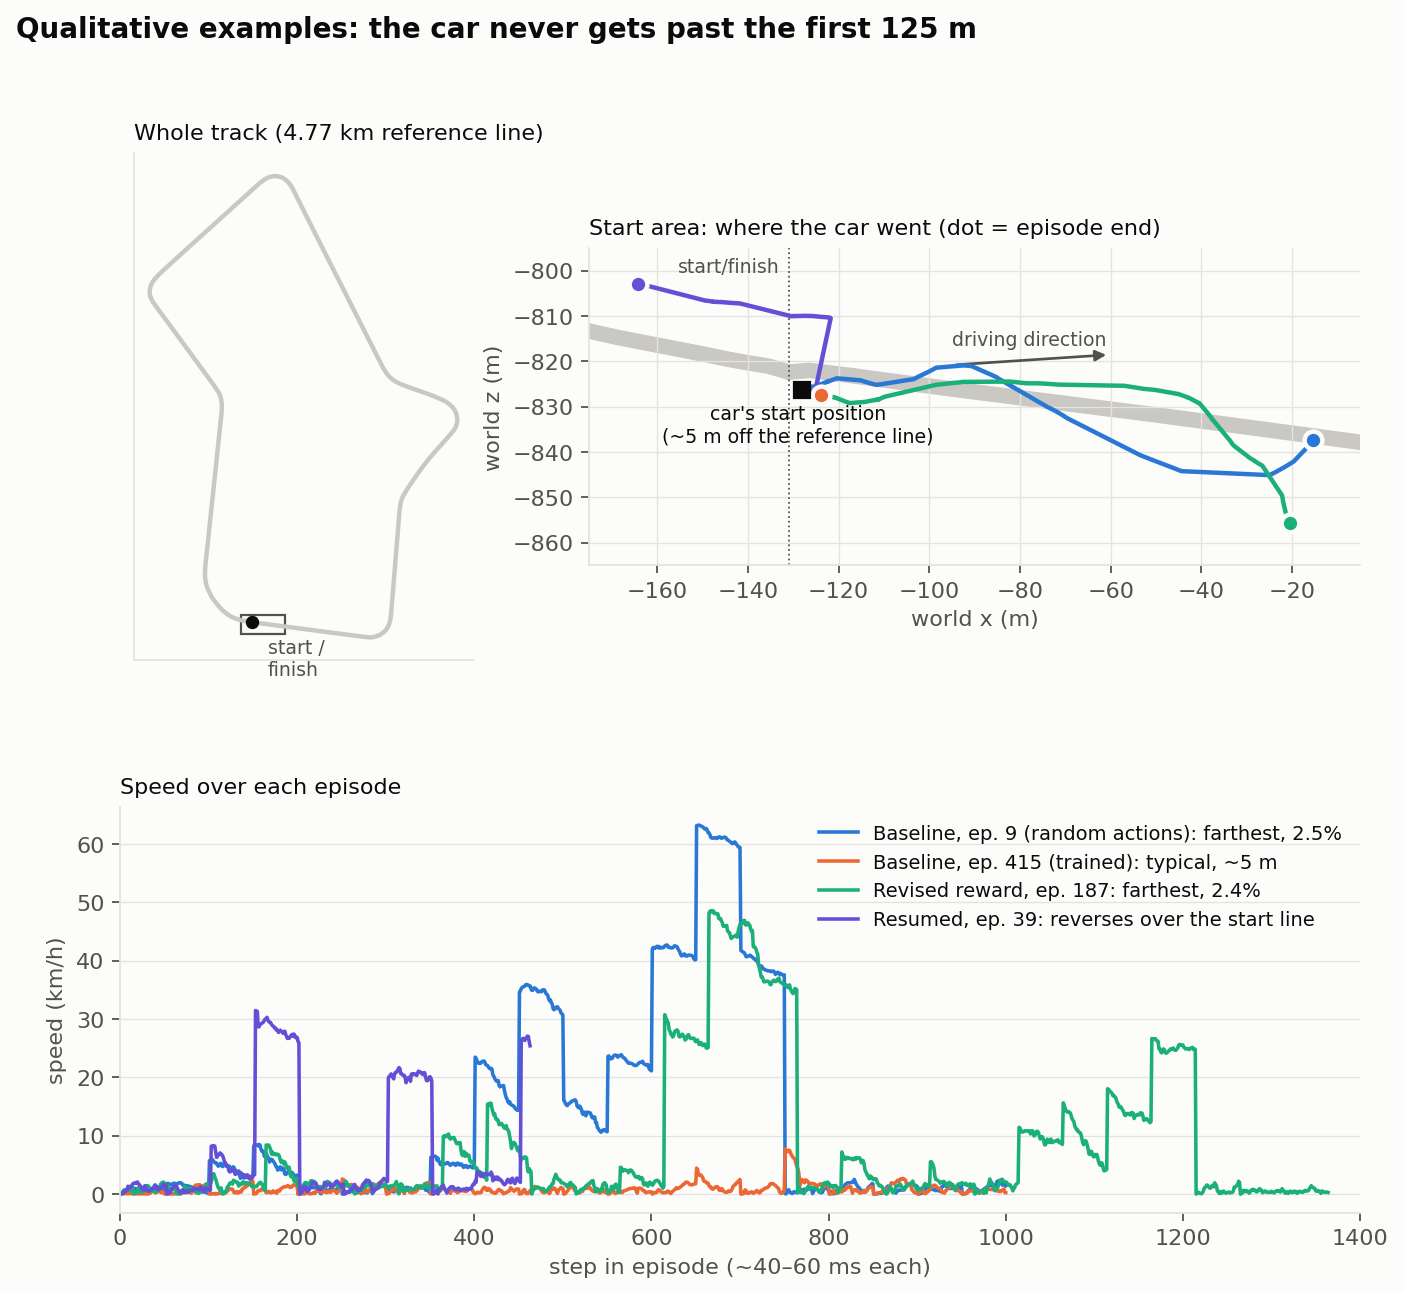
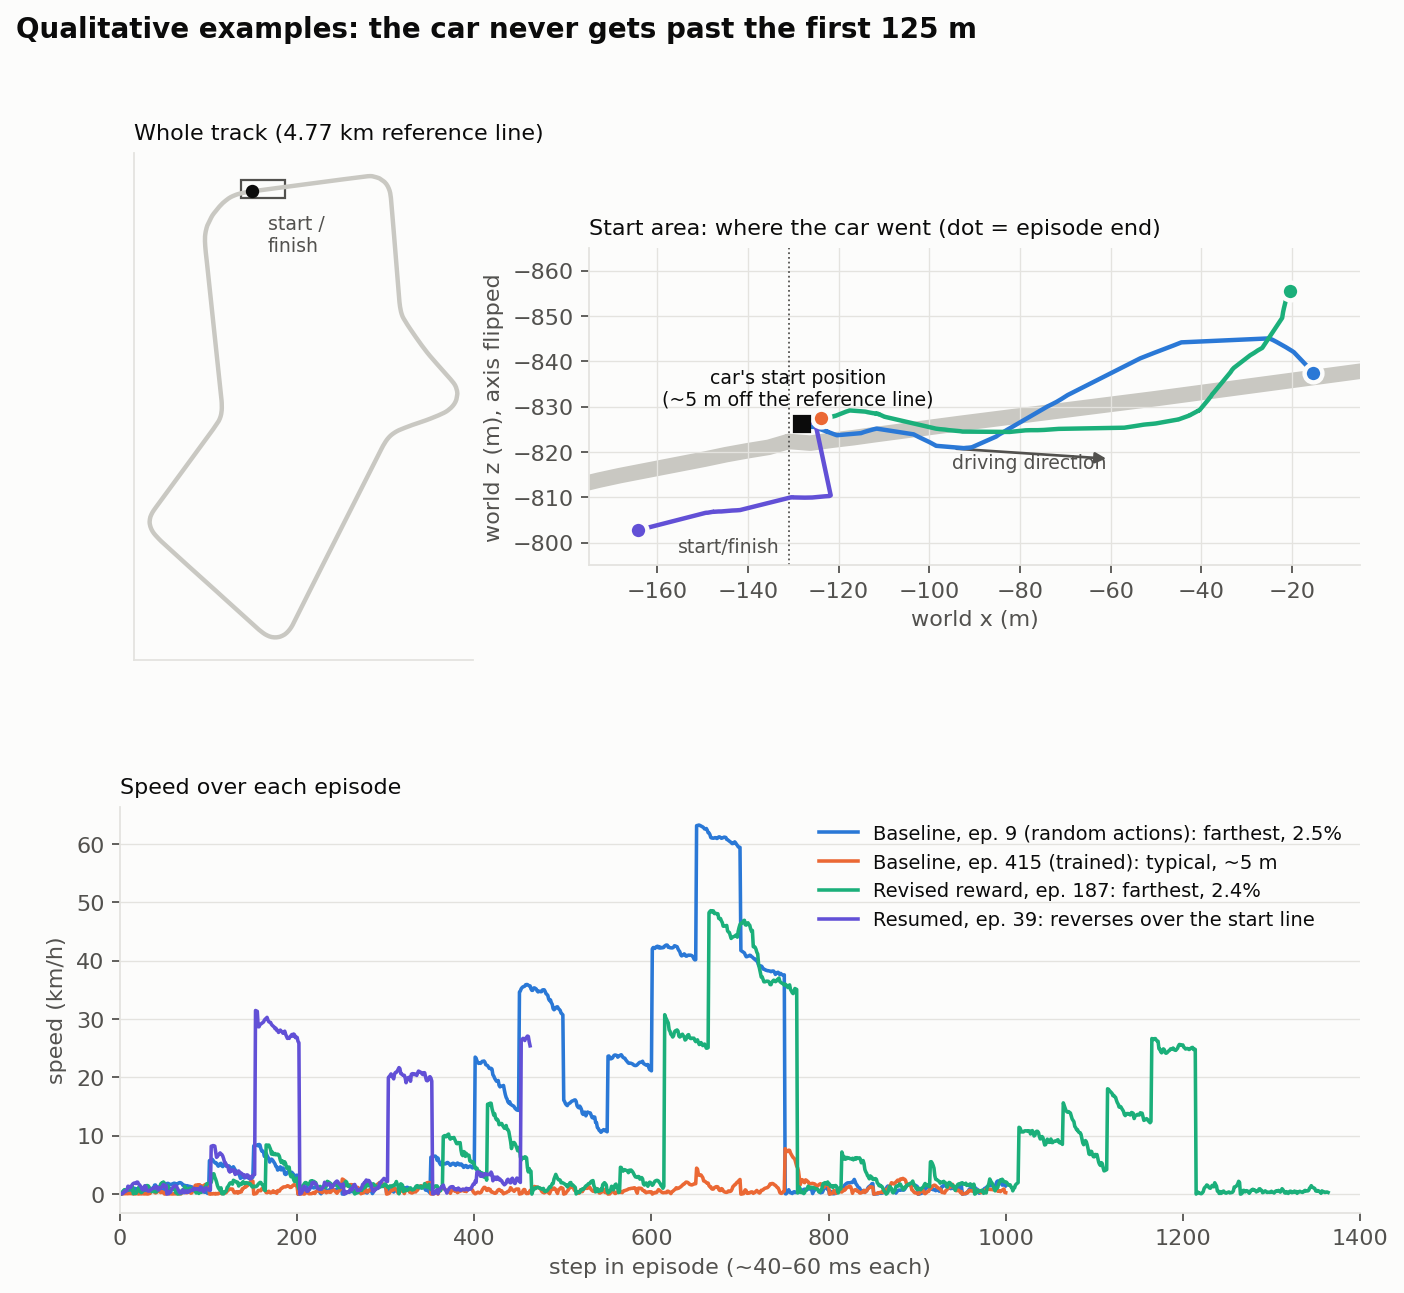
Flip track map to match the in-game orientation
The trajectory figure plotted world z upward, which mirrored the track.
Flip the z axis so the map matches the in-game view, and fix the
left/right wording in the qualitative examples table to match.

Claude-Session: https://claude.ai/code/session_01Fx97M24poa4MT13FD4MNqM

diff --git a/README.md b/README.md
@@ -331,8 +331,8 @@ ACRL saves the car's speed and position for every step (`drive_data.json`). The 
 | Episode | What it shows |
 | --- | --- |
 | **Baseline, episode 415** (trained, typical) | The trained baseline barely moves. Over 1,000 steps the car covers about 5 m, mostly creeping forward under 2 km/h with occasional short bursts. This is the "start and brake" behavior. |
-| **Baseline, episode 9** (random actions) and **revised reward, episode 187** | The farthest the car ever got: about 120 m, or 2.5% of the 4.77 km lap. In both, the car drifts right of the reference line and ends 15–30 m off it, near the first gentle bend. Speed peaks at 63 and 49 km/h, then the car stops. |
-| **Resumed run, episode 39** | The car turns left, rolls backward over the start/finish line, and ends about 36 m behind it. This is the false lap completion from [4.6](#46-reversing-over-the-start-line-counts-as-a-finished-lap). |
+| **Baseline, episode 9** (random actions) and **revised reward, episode 187** | The farthest the car ever got: about 120 m, or 2.5% of the 4.77 km lap. In both, the car drifts to the left of the reference line and ends 15–30 m off it, near the first gentle bend. Speed peaks at 63 and 49 km/h, then the car stops. |
+| **Resumed run, episode 39** | The car rolls backward and to the right, over the start/finish line, and ends about 36 m behind it. This is the false lap completion from [4.6](#46-reversing-over-the-start-line-counts-as-a-finished-lap). |
 
 Two things stand out. First, every episode starts 4–5 m off the reference line, so the car pays a distance penalty from the very first step. Second, the speed traces rise and fall in steps exactly 50 steps apart. That pattern led us to the timing problem in [4.7](#47-the-car-drives-blind-during-gradient-updates).
 
